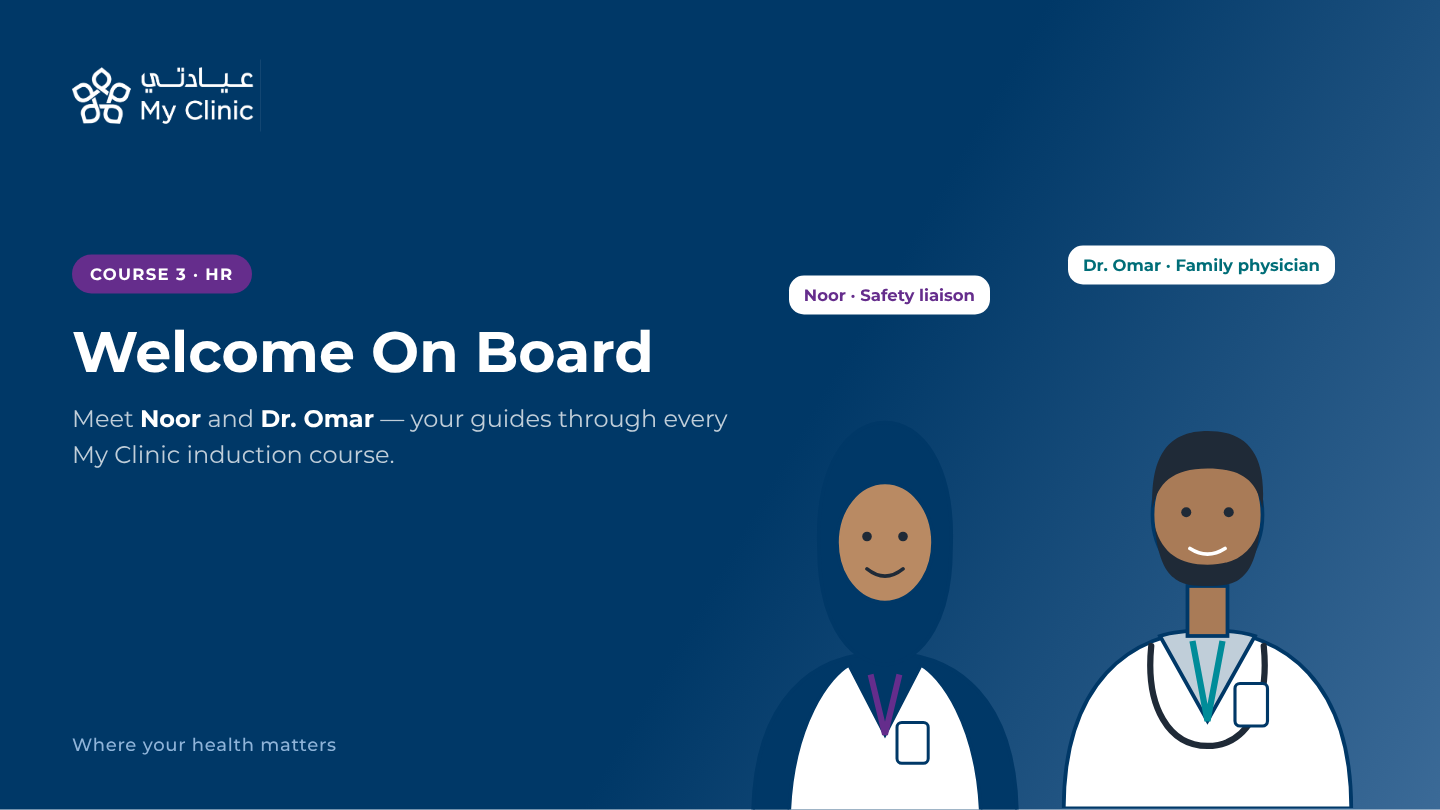
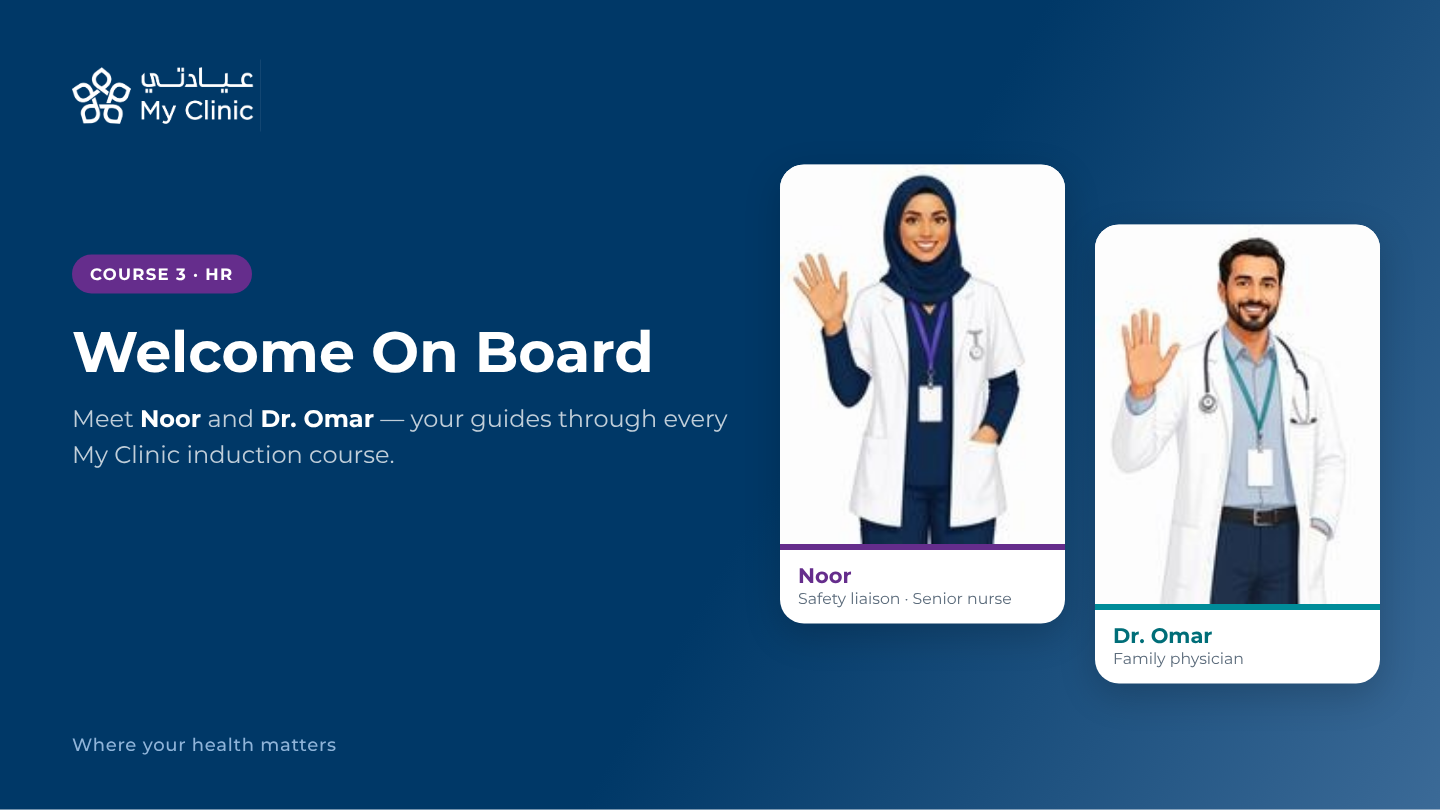
Replace placeholder companions with generated character art
Noor and Dr. Omar masters plus seven poses and an avatar each, generated
in Canva from the master as reference for consistency. Adds the character
sheet, preview images, Canva media ids, the prompts used, and updates the
mockups and placement rules.

Claude-Session: https://claude.ai/code/session_01LeBMPuPXg3NJXsy2o9GP25

Changed region(s): [[0.5312, 0.1852, 0.9688, 1.0]]

diff --git a/elearning-course/scorm-plans/00_program/brand/screen-mockups/mockups.html b/elearning-course/scorm-plans/00_program/brand/screen-mockups/mockups.html
@@ -115,16 +115,7 @@
   <div class="ph" style="position:absolute;left:40px;top:92px;width:400px;height:380px">Scene illustration: store room, large tipped disinfectant container<br>flat style · brand palette · no text in image<br>alt text required</div>
   <div style="position:absolute;left:470px;right:40px;top:92px">
     <div style="display:flex;gap:12px;align-items:center">
-      <div style="width:52px;height:52px;border-radius:50%;background:#F1EAF6;border:3px solid var(--caring);overflow:hidden"><svg viewBox="60 70 180 180" xmlns="http://www.w3.org/2000/svg">
-  <path d="M40 400 C40 300 90 262 150 262 C210 262 260 300 260 400Z" fill="#003867" stroke="#003867" stroke-width="3"/>
-  <path d="M70 400 C72 320 105 280 120 272 L150 330 L180 272 C195 280 228 320 230 400Z" fill="#FFFFFF" stroke="#003867" stroke-width="3"/>
-  <path d="M138 280 L150 330 L162 280" fill="none" stroke="#652D8C" stroke-width="5"/>
-  <rect x="160" y="320" width="26" height="34" rx="4" fill="#FFFFFF" stroke="#003867" stroke-width="2.5"/>
-  <path d="M95 175 C92 105 120 70 150 70 C180 70 208 105 205 175 C205 230 185 268 150 272 C115 268 95 230 95 175Z" fill="#003867" stroke="#003867" stroke-width="3"/>
-  <ellipse cx="150" cy="170" rx="40" ry="50" fill="#B98A63" stroke="#003867" stroke-width="3"/>
-  <circle cx="135" cy="165" r="4" fill="#1F2A37"/><circle cx="165" cy="165" r="4" fill="#1F2A37"/>
-  <path d="M135 192 Q150 204 165 192" fill="none" stroke="#1F2A37" stroke-width="3" stroke-linecap="round"/>
-</svg></div>
+      <div style="width:52px;height:52px;border-radius:50%;background:#F1EAF6;border:3px solid var(--caring);overflow:hidden"><img src="../../characters/previews/char-noor-avatar-neutral.jpg" style="width:100%;height:100%;object-fit:cover" alt=""></div>
       <div style="font-size:12px;color:var(--muted)"><b style="color:var(--caring)">Noor</b> · Safety liaison</div>
     </div>
     <div style="margin-top:14px;font-size:17px;font-weight:600;line-height:1.4;color:var(--ink)">A large container of surface disinfectant tips over. Most of it is on the floor. What do you do?</div>
@@ -162,7 +153,7 @@
 </div>
 
 <!-- 7 MEET YOUR GUIDES -->
-<div class="ann"><b>7 · Meet your guides (title_slide / first content screen)</b> — both companions on the course title of the first course (hr-000); on other courses the lead host appears alone, half-body, bottom-right. <i>Figures are layout placeholders; final art comes from the approved character masters.</i></div>
+<div class="ann"><b>7 · Meet your guides (title_slide / first content screen)</b> — both companions on the course title of the first course (hr-000); on other courses the lead host appears alone, half-body, bottom-right. Characters shown are the generated companion art (preview resolution).</div>
 <div class="stage" id="s7" style="background:linear-gradient(120deg,#003867 0%,#003867 55%,#3B6A97 100%)">
   <img src="../assets/logo-horizontal-white.png" style="position:absolute;left:48px;top:40px;height:48px">
   <div style="position:absolute;left:48px;top:170px;width:440px">
@@ -170,31 +161,14 @@
     <div style="font-size:38px;font-weight:700;color:#fff;line-height:1.1;margin-top:18px">Welcome On Board</div>
     <div style="font-size:16px;color:#C0CED9;margin-top:12px;line-height:1.5">Meet <b style="color:#fff">Noor</b> and <b style="color:#fff">Dr. Omar</b> — your guides through every My Clinic induction course.</div>
   </div>
-  <div style="position:absolute;right:250px;bottom:-6px;width:240px;height:320px"><svg viewBox="0 0 300 400" xmlns="http://www.w3.org/2000/svg">
-  <path d="M40 400 C40 300 90 262 150 262 C210 262 260 300 260 400Z" fill="#003867" stroke="#003867" stroke-width="3"/>
-  <path d="M70 400 C72 320 105 280 120 272 L150 330 L180 272 C195 280 228 320 230 400Z" fill="#FFFFFF" stroke="#003867" stroke-width="3"/>
-  <path d="M138 280 L150 330 L162 280" fill="none" stroke="#652D8C" stroke-width="5"/>
-  <rect x="160" y="320" width="26" height="34" rx="4" fill="#FFFFFF" stroke="#003867" stroke-width="2.5"/>
-  <path d="M95 175 C92 105 120 70 150 70 C180 70 208 105 205 175 C205 230 185 268 150 272 C115 268 95 230 95 175Z" fill="#003867" stroke="#003867" stroke-width="3"/>
-  <ellipse cx="150" cy="170" rx="40" ry="50" fill="#B98A63" stroke="#003867" stroke-width="3"/>
-  <circle cx="135" cy="165" r="4" fill="#1F2A37"/><circle cx="165" cy="165" r="4" fill="#1F2A37"/>
-  <path d="M135 192 Q150 204 165 192" fill="none" stroke="#1F2A37" stroke-width="3" stroke-linecap="round"/>
-</svg></div>
-  <div style="position:absolute;right:30px;bottom:-6px;width:250px;height:340px"><svg viewBox="0 0 300 400" xmlns="http://www.w3.org/2000/svg">
-  <path d="M35 400 C35 300 88 258 150 258 C212 258 265 300 265 400Z" fill="#FFFFFF" stroke="#003867" stroke-width="3"/>
-  <path d="M112 262 L150 330 L188 262 C170 256 130 256 112 262Z" fill="#C0CED9" stroke="#003867" stroke-width="3"/>
-  <path d="M138 266 L150 330 L162 266" fill="none" stroke="#008C99" stroke-width="5"/>
-  <path d="M105 270 C100 320 120 350 150 350 C180 350 200 320 195 270" fill="none" stroke="#1F2A37" stroke-width="5" stroke-linecap="round"/>
-  <rect x="172" y="300" width="26" height="34" rx="4" fill="#FFFFFF" stroke="#003867" stroke-width="2.5"/>
-  <rect x="134" y="222" width="32" height="40" fill="#A97B57" stroke="#003867" stroke-width="3"/>
-  <ellipse cx="150" cy="165" rx="44" ry="54" fill="#A97B57" stroke="#003867" stroke-width="3"/>
-  <path d="M106 160 C104 110 125 98 150 98 C178 98 198 112 194 160 C190 140 180 128 150 128 C122 128 110 140 106 160Z" fill="#1F2A37"/>
-  <path d="M108 175 C112 222 132 222 150 222 C168 222 188 222 192 175 C186 196 172 205 150 205 C128 205 114 196 108 175Z" fill="#1F2A37"/>
-  <circle cx="133" cy="163" r="4" fill="#1F2A37"/><circle cx="167" cy="163" r="4" fill="#1F2A37"/>
-  <path d="M136 192 Q150 201 164 192" fill="none" stroke="#FFFFFF" stroke-width="3" stroke-linecap="round"/>
-</svg></div>
-  <div style="position:absolute;right:300px;bottom:330px;background:#fff;border-radius:10px;padding:6px 10px;font-size:11px;font-weight:700;color:#652D8C">Noor · Safety liaison</div>
-  <div style="position:absolute;right:70px;bottom:350px;background:#fff;border-radius:10px;padding:6px 10px;font-size:11px;font-weight:700;color:#006E78">Dr. Omar · Family physician</div>
+  <div style="position:absolute;right:250px;top:110px;width:190px;background:#fff;border-radius:16px;overflow:hidden;box-shadow:0 8px 24px rgba(0,0,0,.18)">
+    <img src="../../characters/previews/char-noor-welcome.jpg" style="display:block;width:190px;height:253px;object-fit:cover" alt="">
+    <div style="padding:8px 12px 10px;border-top:4px solid #652D8C"><div style="font-size:14px;font-weight:700;color:#652D8C">Noor</div><div style="font-size:10.5px;color:#5B6B7B">Safety liaison · Senior nurse</div></div>
+  </div>
+  <div style="position:absolute;right:40px;top:150px;width:190px;background:#fff;border-radius:16px;overflow:hidden;box-shadow:0 8px 24px rgba(0,0,0,.18)">
+    <img src="../../characters/previews/char-omar-welcome.jpg" style="display:block;width:190px;height:253px;object-fit:cover" alt="">
+    <div style="padding:8px 12px 10px;border-top:4px solid #008C99"><div style="font-size:14px;font-weight:700;color:#006E78">Dr. Omar</div><div style="font-size:10.5px;color:#5B6B7B">Family physician</div></div>
+  </div>
   <div style="position:absolute;left:48px;bottom:36px;font-size:12px;color:#8FB4D9;font-weight:500;letter-spacing:.04em">Where your health matters</div>
 </div>
 
@@ -210,19 +184,7 @@
   </div>
   <div class="ph" style="position:absolute;right:40px;top:96px;width:400px;height:300px">Photo: My Clinic eyewash / shower station<br>own photo · alt text required</div>
   <div style="position:absolute;left:40px;bottom:44px;display:flex;gap:12px;align-items:flex-end">
-    <div style="width:56px;height:56px;border-radius:50%;border:3px solid var(--ambitious);background:#E6F4F5;overflow:hidden"><svg viewBox="60 80 180 180" xmlns="http://www.w3.org/2000/svg">
-  <path d="M35 400 C35 300 88 258 150 258 C212 258 265 300 265 400Z" fill="#FFFFFF" stroke="#003867" stroke-width="3"/>
-  <path d="M112 262 L150 330 L188 262 C170 256 130 256 112 262Z" fill="#C0CED9" stroke="#003867" stroke-width="3"/>
-  <path d="M138 266 L150 330 L162 266" fill="none" stroke="#008C99" stroke-width="5"/>
-  <path d="M105 270 C100 320 120 350 150 350 C180 350 200 320 195 270" fill="none" stroke="#1F2A37" stroke-width="5" stroke-linecap="round"/>
-  <rect x="172" y="300" width="26" height="34" rx="4" fill="#FFFFFF" stroke="#003867" stroke-width="2.5"/>
-  <rect x="134" y="222" width="32" height="40" fill="#A97B57" stroke="#003867" stroke-width="3"/>
-  <ellipse cx="150" cy="165" rx="44" ry="54" fill="#A97B57" stroke="#003867" stroke-width="3"/>
-  <path d="M106 160 C104 110 125 98 150 98 C178 98 198 112 194 160 C190 140 180 128 150 128 C122 128 110 140 106 160Z" fill="#1F2A37"/>
-  <path d="M108 175 C112 222 132 222 150 222 C168 222 188 222 192 175 C186 196 172 205 150 205 C128 205 114 196 108 175Z" fill="#1F2A37"/>
-  <circle cx="133" cy="163" r="4" fill="#1F2A37"/><circle cx="167" cy="163" r="4" fill="#1F2A37"/>
-  <path d="M136 192 Q150 201 164 192" fill="none" stroke="#FFFFFF" stroke-width="3" stroke-linecap="round"/>
-</svg></div>
+    <div style="width:56px;height:56px;border-radius:50%;border:3px solid var(--ambitious);background:#E6F4F5;overflow:hidden"><img src="../../characters/previews/char-omar-avatar-neutral.jpg" style="width:100%;height:100%;object-fit:cover" alt=""></div>
     <div style="max-width:380px;background:#fff;border:1px solid var(--line);border-left:4px solid var(--ambitious);border-radius:0 12px 12px 0;padding:10px 14px">
       <div style="font-size:11px;font-weight:700;color:var(--ambitious-dark);letter-spacing:.08em">OMAR'S TIP</div>
       <div style="font-size:14px;line-height:1.4;margin-top:2px">Fifteen minutes feels long. Set a timer and keep flushing, even when it stops stinging.</div>

diff --git a/elearning-course/scorm-plans/00_program/characters/character-sheet.html b/elearning-course/scorm-plans/00_program/characters/character-sheet.html
@@ -1,0 +1,38 @@
+<!doctype html><html><head><meta charset="utf-8"><title>Companion character sheet</title>
+<link href="https://fonts.googleapis.com/css2?family=Montserrat:wght@400;600;700&display=swap" rel="stylesheet">
+<style>
+body{margin:0;background:#F4F7FA;font-family:Montserrat,sans-serif;color:#1F2A37}
+.sheet{width:1500px;padding:28px 32px;background:#fff}
+h1{margin:0;color:#003867;font-size:26px}.sub{color:#5B6B7B;font-size:13px;margin:4px 0 18px}
+.row{display:flex;gap:10px;align-items:flex-end;margin-bottom:8px}
+.who{width:150px;flex:none}.who b{display:block;font-size:20px}.who span{font-size:12px;color:#5B6B7B;line-height:1.4;display:block;margin-top:4px}
+.t{width:140px;text-align:center}.t img{width:140px;height:187px;object-fit:contain;background:#fff;border:1px solid #D9E1E8;border-radius:10px}
+.t.av img{height:140px;border-radius:50%}
+.t div{font-size:11px;font-weight:600;margin-top:5px}.t code{font-size:9.5px;color:#5B6B7B}
+.noor b{color:#652D8C}.omar b{color:#006E78}
+hr{border:none;border-top:1px solid #D9E1E8;margin:14px 0}
+</style></head><body><div class="sheet" id="sheet">
+<h1>Course companions — Noor and Dr. Omar</h1>
+<div class="sub">Approved style: polished flat vector with soft shading · every pose generated from the master as reference · full-size originals in Canva (media ids in companions.md §3)</div>
+<div class="row noor"><div class="who"><b>Noor</b><span>Senior staff nurse &amp; patient-safety liaison · purple lanyard · leads 01, 02, 07</span></div>
+<div class="t"><img src="previews/char-noor-master.jpg"><div>Master</div><code>char-noor-master</code></div>
+<div class="t"><img src="previews/char-noor-welcome.jpg"><div>Welcome</div><code>-welcome</code></div>
+<div class="t"><img src="previews/char-noor-explaining.jpg"><div>Explaining</div><code>-explaining</code></div>
+<div class="t"><img src="previews/char-noor-tip.jpg"><div>Tip</div><code>-tip</code></div>
+<div class="t"><img src="previews/char-noor-thinking.jpg"><div>Thinking</div><code>-thinking</code></div>
+<div class="t"><img src="previews/char-noor-concern.jpg"><div>Concern</div><code>-concern</code></div>
+<div class="t"><img src="previews/char-noor-success.jpg"><div>Success</div><code>-success</code></div>
+<div class="t"><img src="previews/char-noor-listening.jpg"><div>Listening</div><code>-listening</code></div>
+<div class="t av"><img src="previews/char-noor-avatar-neutral.jpg"><div>Avatar</div><code>-avatar-neutral</code></div></div>
+<hr>
+<div class="row omar"><div class="who"><b>Dr. Omar</b><span>Family physician &amp; onboarding champion · teal lanyard · leads 03, 04, 05, 06, 08</span></div>
+<div class="t"><img src="previews/char-omar-master.jpg"><div>Master</div><code>char-omar-master</code></div>
+<div class="t"><img src="previews/char-omar-welcome.jpg"><div>Welcome</div><code>-welcome</code></div>
+<div class="t"><img src="previews/char-omar-explaining.jpg"><div>Explaining</div><code>-explaining</code></div>
+<div class="t"><img src="previews/char-omar-tip.jpg"><div>Tip</div><code>-tip</code></div>
+<div class="t"><img src="previews/char-omar-thinking.jpg"><div>Thinking</div><code>-thinking</code></div>
+<div class="t"><img src="previews/char-omar-concern.jpg"><div>Concern</div><code>-concern</code></div>
+<div class="t"><img src="previews/char-omar-success.jpg"><div>Success</div><code>-success</code></div>
+<div class="t"><img src="previews/char-omar-listening.jpg"><div>Listening</div><code>-listening</code></div>
+<div class="t av"><img src="previews/char-omar-avatar-neutral.jpg"><div>Avatar</div><code>-avatar-neutral</code></div></div>
+</div></body></html>

diff --git a/elearning-course/scorm-plans/00_program/characters/companions.md b/elearning-course/scorm-plans/00_program/characters/companions.md
@@ -6,7 +6,9 @@ Two fictional My Clinic colleagues guide every trainee through all eight package
 
 This file is the **character bible**. It is mandatory for anyone (person or AI agent) who writes storyboards, narration, image prompts or audio for the courses. It sits with the brand guide: [`../brand/brand-identity.md`](../brand/brand-identity.md).
 
-![Companion placement mockups](../brand/screen-mockups/07-meet-your-guides.png)
+![Noor and Dr. Omar character sheet](character-sheet.png)
+
+*Character sheet: master + 7 poses + avatar for each companion, generated from the master as reference so face, outfit and style stay identical. Previews here are low resolution; the full-size originals (1088 × 1456 px) are in My Clinic's Canva account — media ids in §3.*
 
 ---
 
@@ -46,7 +48,7 @@ Short, true-to-life moments the companions share once each, to make it safe for 
 
 ## 2. How they look (visual bible)
 
-Same flat vector style as the brand (navy outlines, white space, no gradients, no text). Semi-realistic proportions (about 6.5 heads tall), friendly but professional — **not** cartoon or chibi.
+**Approved style:** polished flat vector illustration with **subtle soft shading**, like a premium explainer-video character; clean confident linework; semi-realistic proportions (about 7 heads tall); friendly and professional — **not** cartoon, chibi or photoreal. Limited palette: navy, white, the character's accent colour, warm skin tones. (Characters are the one place where soft shading is allowed; scenes and diagrams stay flat.)
 
 | | **Noor** | **Dr. Omar** |
 |---|---|---|
@@ -60,7 +62,7 @@ Same flat vector style as the brand (navy outlines, white space, no gradients, n
 
 ### Consistency rules
 
-1. Make **one master image of each character first** (front, three-quarter, neutral pose, full body on white). Get it approved (Phase 3 approval). Every other pose is generated **from that master** (image reference / character reference / same seed), not from a fresh prompt.
+1. The **master image of each character is done** (`char-noor-master`, `char-omar-master`). Confirm approval in Phase 3. Every other pose is generated **from that master** (image reference / character reference / same seed), not from a fresh prompt.
 2. Keep face, skin tone, hijab/hair, clothing, lanyard colour and proportions identical in every pose.
 3. Check every pose at the size it will be shown (64 px avatar and 300–420 px half-body), next to the master, before accepting it.
 4. Transparent background (PNG with alpha), no shadow on the ground, no props that are not in the list.
@@ -70,31 +72,38 @@ Same flat vector style as the brand (navy outlines, white space, no gradients, n
 
 ## 3. Asset list (program-wide, shared by all modules)
 
-All files live in `00_program/characters/assets/` once produced. Provenance: `ai-generated` (prompt, tool, date recorded) after human review.
+**Status: masters and 7 poses + avatar per character are generated** (Canva AI, 14 Oct 2026). The full-size files live in My Clinic's Canva account; open each with `https://www.canva.com/M/<media id>` and download as **PNG with transparent background** (Canva Pro background remover) into `00_program/characters/assets/<asset id>.png`. Low-resolution previews are in [`previews/`](previews/). Provenance: `ai-generated` (Canva AI, prompts below), reviewed for consistency.
 
-| Asset id | Noor | Dr. Omar | Use |
+| Asset id | Noor — Canva media id | Dr. Omar — Canva media id | Use |
 |---|---|---|---|
-| `char-<id>-master` | ✔ | ✔ | Reference only (full body, neutral, 3/4 view) |
-| `char-<id>-welcome` | ✔ | ✔ | Open palm wave, big smile — title / intro / "meet your guide" |
-| `char-<id>-explaining` | ✔ | ✔ | One hand gesturing to the side (toward content) — content screens, scenario intros |
-| `char-<id>-thinking` | ✔ | ✔ | Hand at chin, slight head tilt — worked examples, "let's work it out" |
-| `char-<id>-tip` | ✔ | ✔ | Index finger raised, friendly — tip cards |
-| `char-<id>-concern` | ✔ | ✔ | Serious face, palm slightly raised — warnings, wrong choices with safety impact |
-| `char-<id>-success` | ✔ | ✔ | Thumbs up or small clap, big smile — correct choices, results, close |
-| `char-<id>-listening` | ✔ | ✔ | Holding tablet/clipboard, nodding — reflection polls, "your turn" |
-| `char-<id>-avatar-neutral` | ✔ | ✔ | Head-and-shoulders, circle crop, 512 × 512 — 48–64 px avatars |
-| `char-<id>-avatar-happy` | ✔ | ✔ | Avatar, smiling — success feedback |
-| `char-<id>-avatar-concern` | ✔ | ✔ | Avatar, concerned — caution feedback |
-| `char-duo-welcome` | ✔ together | | Both side by side, waving — course title / "meet your guides" (hr-000) |
+| `char-<id>-master` | `MAHX-pdlawM` | `MAHX-ka2O4Q` | Reference only (full body, 3/4 view) — every pose is generated from this |
+| `char-<id>-welcome` | `MAHX-pFaNMU` | `MAHX-hEFOR4` | Open-palm wave — title / intro / "meet your guides" |
+| `char-<id>-explaining` | `MAHX-hqkU5I` | `MAHX-ljvFtE` | Hand presenting to the side — content screens, scenario intros |
+| `char-<id>-tip` | `MAHX-v-F8xI` | `MAHX-jYQR58` | Index finger raised — tip cards |
+| `char-<id>-thinking` | `MAHX-p0nWpE` | `MAHX-jgu1Vk` | Hand at chin — worked examples |
+| `char-<id>-concern` | `MAHX-hFE0aQ` | `MAHX-nCzJ70` | Raised palm, serious — warnings, unsafe choices |
+| `char-<id>-success` | `MAHX-jiR90M` | `MAHX-llCU5M` | Thumbs up — correct choices, results, close |
+| `char-<id>-listening` | `MAHX-v3i0kY` | `MAHX-uifxtY` | Holding a tablet, attentive — polls, reflections |
+| `char-<id>-avatar-neutral` | `MAHX-n4HuyU` | `MAHX-nPHDkA` | Head and shoulders, square — crop to a circle for 48–64 px avatars |
+| `char-<id>-avatar-happy` / `-avatar-concern` | to make if needed | to make if needed | Crop from `-success` / `-concern`, or generate from the avatar with the pose prompt |
+| `char-duo-welcome` | — | — | Not needed as one image: place the two `-welcome` poses side by side (see mockup 07) |
 
-**Total: 23 images** (11 per character + 1 duo). Half-body poses: 1200 × 1600 px PNG, transparent. Avatars: 512 × 512 PNG.
+| | Noor | Dr. Omar |
+|---|---|---|
+| Preview | ![](previews/char-noor-welcome.jpg) | ![](previews/char-omar-welcome.jpg) |
 
-### AI prompt — master images (fill nothing; use as is)
+Sizes in the course: half-body 300–420 px tall; avatars 48–64 px. Export at 1088 × 1456 (poses) and 1024 × 1024 (avatars).
+
+### AI prompts actually used (Canva AI image generator)
+
+Master images were made with these prompts (text-to-image, portrait 3:4):
 
 **Noor (master):**
 ```text
-Character design sheet master image, flat vector illustration, full body, three-quarter view, standing
-neutral and relaxed, transparent background. A Saudi woman in her mid-30s, a senior staff nurse:
+Professional character design for a corporate healthcare e-learning course, high-quality modern flat
+vector illustration with subtle soft shading, polished like a premium explainer-video character. Full
+body, three-quarter view, standing relaxed and confident, warm friendly smile, on a plain white
+background. A Saudi woman in her mid-30s, a senior staff nurse:
 oval face, warm medium-brown skin, dark brown eyes, soft natural smile, plain navy (#003867) hijab
 neatly wrapped, navy scrubs with a short white open lab coat, fob watch pinned to the coat, plain
 white ID badge on a purple (#652D8C) lanyard with nothing printed on the badge, flat white shoes.
@@ -105,8 +114,10 @@ for Saudi Arabia. No text, no letters, no logos, no watermark, no background sce
 
 **Dr. Omar (master):**
 ```text
-Character design sheet master image, flat vector illustration, full body, three-quarter view, standing
-neutral and relaxed, transparent background. A Saudi man in his late 30s, a family physician:
+Professional character design for a corporate healthcare e-learning course, high-quality modern flat
+vector illustration with subtle soft shading, polished like a premium explainer-video character. Full
+body, three-quarter view, standing relaxed and confident, warm friendly smile, on a plain white
+background. A Saudi man in his late 30s, a family physician:
 slightly square face, light-medium brown skin, dark eyes, short neat black beard, short tidy dark
 hair, warm smile, white doctor's coat over a light blue-grey (#C0CED9) shirt and navy (#003867)
 trousers, stethoscope around the neck, plain white ID badge on a teal (#008C99) lanyard with nothing
@@ -116,12 +127,15 @@ professional, culturally appropriate for Saudi Arabia. No text, no letters, no l
 no background scene, no shadow.
 ```
 
-### AI prompt — poses (use the approved master as the character reference)
+### AI prompt — poses (image-to-image, the approved master attached as the reference image)
+
+Used for every pose; only the `{POSE}` sentence changes. In Canva: generate-image with the master's media id as the image reference.
 
 ```text
-Same character as the reference image, identical face, skin tone, {hijab and navy scrubs with white
-coat and purple lanyard | beard, white coat, blue-grey shirt, stethoscope and teal lanyard}, same flat
-vector style and navy outlines. {POSE}: e.g. "half-body, open palm wave, big friendly smile" /
+Same character as the reference image: identical face, skin tone, {navy hijab, navy scrubs, short white
+open lab coat, fob watch, blank white badge on purple lanyard | short neat black beard, white doctor's
+coat over light blue-grey shirt, navy trousers, stethoscope, blank white badge on teal lanyard}, same
+polished flat vector illustration style with soft shading. Plain white background. {POSE}: e.g. "half-body, open palm wave, big friendly smile" /
 "half-body, right hand gesturing to the left side as if presenting something" / "half-body, index
 finger raised, giving a friendly tip" / "half-body, serious caring expression, palm slightly raised" /
 "half-body, thumbs up, big smile" / "head and shoulders only, centred, for a circular avatar, {neutral |
@@ -139,7 +153,7 @@ Follow the brand layouts L1–L6 ([`../brand/brand-identity.md`](../brand/brand-
 
 | Layout | Companion use | Size and position |
 |---|---|---|
-| L1 Title | Lead host `welcome` pose (or `char-duo-welcome` on the first course in the path, `hr-000`) | Half-body, 380–420 px tall, bottom-right, cropped at the waist by the stage edge; replaces the watermark |
+| L1 Title | Lead host `welcome` pose (both `welcome` poses on `hr-000`, the first course in the path) | On the navy background, show the character in a **white rounded portrait card** (16 px radius, 4 px top edge in the character colour, name + role under the image), about 190 × 300 px, right side (mockup 07). Use a free-standing cut-out only if you have a clean transparent PNG from Canva's background remover — never a rough cut-out on navy |
 | L2 Section opener | None (the value tile carries the screen) | — |
 | L3 Content | (a) **Intro screens**: half-body `explaining` pose in the right column instead of an illustration. (b) **Tip card**: avatar + speech card | (a) 320–380 px tall, right column. (b) 56 px avatar with a 3 px ring in the character colour, card 360 px wide max, bottom-left, white card with 4 px left edge in the character colour, ≤ 25 words, label "Noor's tip" / "Omar's tip" |
 | L4 Question | **Not visible while the learner answers.** May appear in the feedback banner as an avatar (`avatar-happy` correct / `avatar-concern` incorrect) | 40 px avatar at the left of the feedback banner |

diff --git a/elearning-course/scorm-plans/00_program/brand/brand-identity.md b/elearning-course/scorm-plans/00_program/brand/brand-identity.md
@@ -169,7 +169,7 @@ Two fictional guides appear across all courses. **Everything about them — look
 
 - **Noor**: senior staff nurse, navy hijab, navy scrubs with short white coat, **purple** (#652D8C) lanyard. Leads 01, 02, 07.
 - **Dr. Omar**: family physician, short beard, white coat over blue-grey shirt, stethoscope, **teal** (#008C99) lanyard. Leads 03, 04, 05, 06, 08.
-- Badges carry no logo or text. One master image each, approved first; every pose is made from the master.
+- Badges carry no logo or text. Style: polished flat vector with subtle soft shading (the one exception to "flat only"). Masters and 16 poses are generated — see the character sheet `../characters/character-sheet.png`; every pose is made from the master.
 - Placement: half-body on title, intro and closing screens; 48–64 px avatar with a ring in their colour on scenarios and tip cards; never over a question while the learner answers. Visible on about one screen in three at most.
 
 ---
